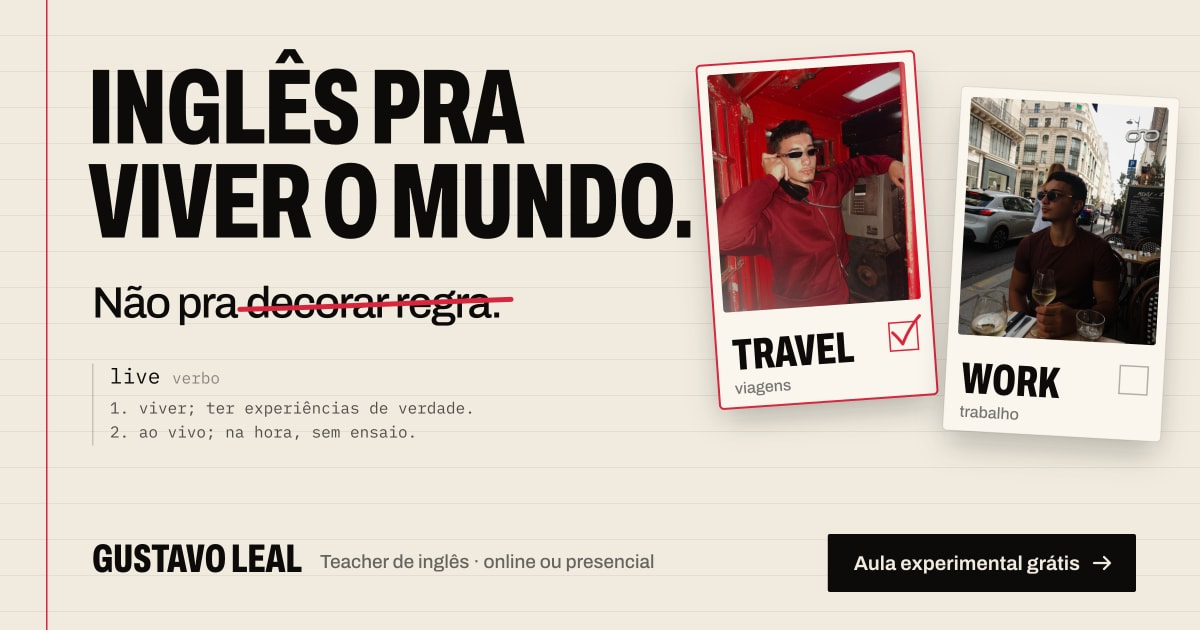
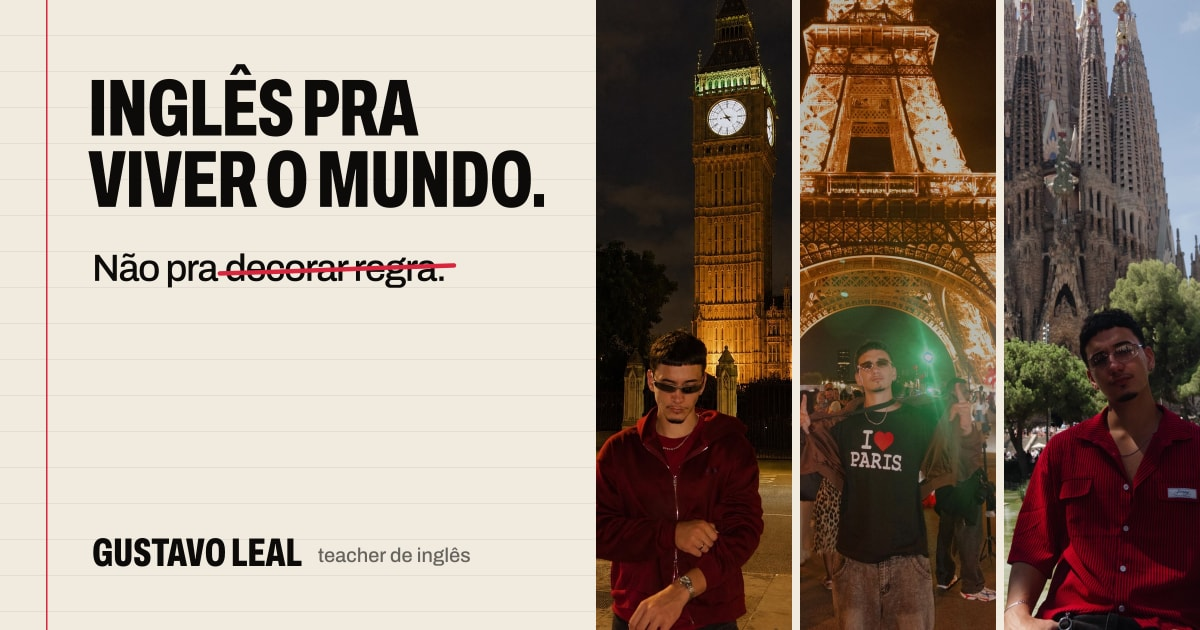
Capa do link com fotos dele em Londres, Paris e Barcelona
Menos texto: só o título, "decorar regra" riscado e o nome. As fichas e o
verbete saem, e entram três tiras com o Gustavo no Big Ben, na Torre
Eiffel e na Sagrada Família.

Claude-Session: https://claude.ai/code/session_01HuVJ5d3avUy3wjszjDTTL1

diff --git a/index.html b/index.html
@@ -32,7 +32,7 @@
     <meta property="og:image:type" content="image/jpeg" />
     <meta property="og:image:width" content="1200" />
     <meta property="og:image:height" content="630" />
-    <meta property="og:image:alt" content="Inglês pra viver o mundo. Não pra decorar regra, com decorar regra riscado em vermelho. Ao lado, fichas de estudo com fotos de Gustavo Leal em Londres e em Paris." />
+    <meta property="og:image:alt" content="Inglês pra viver o mundo. Não pra decorar regra, com decorar regra riscado em vermelho. Ao lado, três fotos de Gustavo Leal: no Big Ben, em Londres, na Torre Eiffel, em Paris, e na Sagrada Família, em Barcelona." />
     <meta name="twitter:card" content="summary_large_image" />
     <meta name="twitter:title" content="Gustavo Leal · Inglês pra viver o mundo, não pra decorar regra" />
     <meta name="twitter:description" content="Aulas de inglês personalizadas com conversação, música, filmes e situações reais." />
